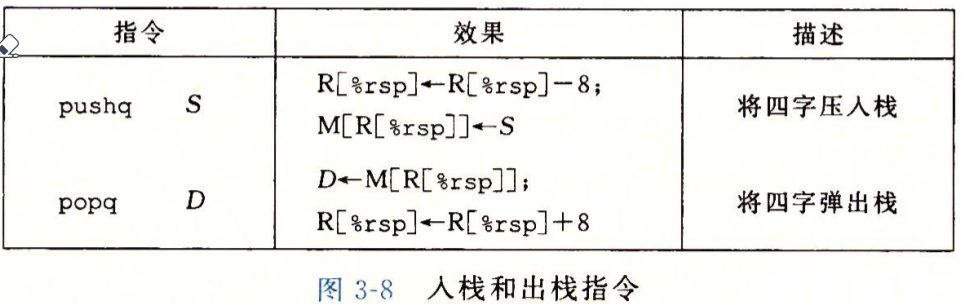
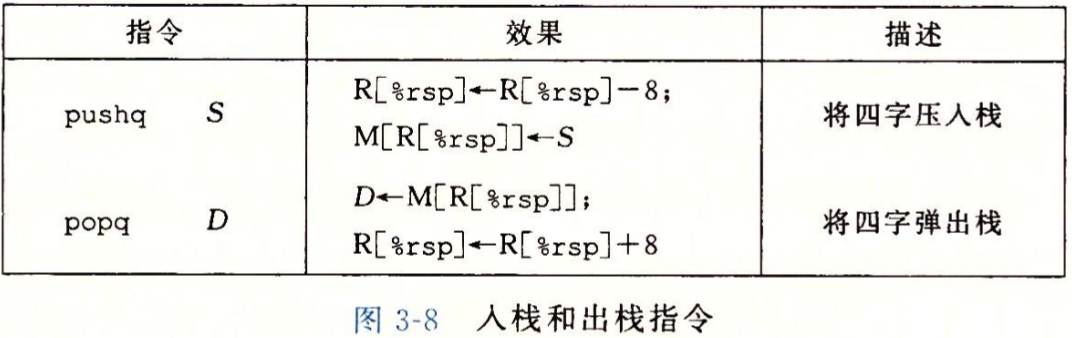
CSAPP第三章

diff --git a/notes/第三章 程序的机器级表示.md b/notes/第三章 程序的机器级表示.md
@@ -1,94 +1,295 @@
 # 第三章 程序的机器级表示
 
-```bash
-gcc -Og -S test.c	# 汇编代码 test.s
-gcc -Og -c test.c	# 目标代码 test.o
-gcc -Og -o test main.c test.c	# 可执行代码 test
-```
+### 编译系统
 
 ```bash
-objdump -d test.o	# 反汇编 test.s
+# 源文件 p1.c  p2.c
+.c -> .i -> .s -> .o -> 可执行文件
+
+# 预处理
+gcc -E p1.c -o p1.i
+gcc -E p2.c -o p2.i
+
+# 编译
+gcc -Og -S p1.i -o p1.s
+gcc -Og -S p2.i -o p2.s
+
+# 汇编
+gcc -c p1.s -o p1.o
+gcc -c p2.s -o p2.o
+
+# 链接
+gcc p1.o p2.o -o p
+
+# 反汇编
+objdump -d test.o > test.dump	# 反汇编可重定位目标文件
+objdump -d test.o > test.dump	# 反汇编可执行目标文件
 ```
 
->   Optimize generate Assembly output
+1.   **预处理器 cpp**
 
-8位-字节
+     预处理 # 开头的预处理指令
 
-16位-字
+     文本文件 p1.i p2.i
 
-32位-双字
+2.   **编译器 cc1**
 
-64位-四字
+     编译为汇编代码
+
+     汇编文件 p1.s  p2.s
+
+3.   **汇编器 as**
+
+     汇编为机器代码
+
+     可重定位目标文件 p1.o p2.o
+
+4.   **链接器 ld**
+
+     符号解析和重定位, p1.o  p2.o 与库代码合并
+
+     可执行目标文件 p
+
+### 机器级编程抽象
+
+**ISA 抽象 CPU 的软件可见行为, 包括处理器状态, 指令格式, 指令对状态的影响**
+
+处理器状态: PC, 整数寄存器, 条件码寄存器, 向量寄存器
+
+**虚拟地址空间抽象内存, 磁盘为大数组**
+
+### 数据格式
+
+![汇编后缀](../images/汇编后缀.png)
+
+### 寄存器
+
+16个64位**通用目的寄存器**
+
+*   生成1/2字节数字的指令保持剩余字节不变
+*   生成4字节数字的指令把高位4字节置为0
 
 ![寄存器](../images/寄存器.png)
+
+### 操作数
+
+*   基址寄存器 $r_b$ 和变址寄存器 $r_i$ 是 64 位寄存器
+*   比例因子 $s$ 是 1 2 4 8
 
 |  类型  |        格式        |                 值                 |
 | :----: | :----------------: | :--------------------------------: |
 | 立即数 |     $\${Imm}$      |              ${Imm}$               |
 | 寄存器 |       $r_a$        |              $R[r_a]$              |
-|  内存  | $Imm(r_b, r_i, s)$ | $M[Imm + R[r_b] + R[r_i] \cdot s]$ |
+| 存储器 | $Imm(r_b, r_i, s)$ | $M[Imm + R[r_b] + R[r_i] \cdot s]$ |
 
-**MOV 类**
+### 数据传送
 
-movl 寄存器为目的时将高位4字节置为0
+普通x86-64指令中两个操作数不能都指向内存
+
+**普通 MOV**
+
+**源操作数指定立即数**(立即数, 寄存器或内存)
+
+**目的操作数指定位置**(寄存器或内存)
+
+*   `movq` 32位立即数扩展到64位
+*   `movabsq` 源操作数任意64位立即数, 目的操作数寄存器
 
 ![mov1](../images/mov1.png)
+
+**扩展 MOV**
 
 ![mov2](../images/mov2.png)
 
 ![mov3](../images/mov3.png)
 
-**算数和逻辑操作**
+### 算数和逻辑操作
+
+**leaq 计算地址给寄存器**
+
+移位操作
+
+*   移位量: 立即数或寄存器 `%cl`
+*   目的操作数: w 位长, 移位量为低 `log w` 位, 忽略高位
 
 ![算数逻辑操作](../images/算数逻辑操作.png)
 
-leaq 目的操作数是寄存器
+特殊算术操作
 
-移位量是立即数或寄存器 cl, w位长移位量为 cl 低 $\log w$ 位
+乘法 `%rax * 源操作数 -> %rdx : %rax`
+
+除法 `%rdx : %rax / 源操作数 -> 商%rax 余数%rdx `
+
+`%rdx`
+
+*   无符号除法 `xorl %edx, %edx`
+*   有符号除法 `cqto`
 
 ![64位乘除法](../images/64位乘除法.png)
 
+### 控制
 
+**条件码**
 
-CF 进位标志
+一组单个位的条件码寄存器, 描述最近算术/逻辑操作的属性
 
-ZF 零标志
+*   CF 进位标志
 
-SF 符号标志
+*   ZF 零标志
 
-OF 溢出标志
+*   SF 符号标志
+
+*   OF 溢出标志
+
+**设置条件码**
 
 ![比较和测试指令](../images/比较和测试指令.png)
 
+**缩写**
+
+无符号比较: below / above
+
+有符号比较: less / great
+
+|  缩写   |          含义           |     符号      |
+| :-----: | :---------------------: | :-----------: |
+|  e / z  |     equal / zero ==     |               |
+| ne / nz | not equal / not zero != |               |
+|         |                         |               |
+|    b    |         below <         |    无符号     |
+|   be    |     below equal <=      |    无符号     |
+|    a    |         above >         |    无符号     |
+|   ae    |     above equal >=      |    无符号     |
+|         |                         |               |
+|    l    |         less <          |    有符号     |
+|   le    |      less equal <=      |    有符号     |
+|    g    |         great >         |    有符号     |
+|   ge    |     great equal >=      |    有符号     |
+|         |                         |               |
+|    c    |     carry 进位/借位     |  setb = setc  |
+|   nc    |  no carry 无进位/借位   | setae = setnc |
+|         |                         |               |
+|    s    |         sign 负         |               |
+|   ns    |      no sign 非负       |               |
+|         |                         |               |
+|    o    |      overflow 溢出      |               |
+|   no    |   no overflow 无溢出    |               |
+
+**访问条件码**
+
 ![set指令](../images/set指令.png)
+
+**跳转指令**
+
+*   相对地址
+
+    下一指令地址 + 偏移量
+
+*   绝对地址
+
+    四字节
 
 ![跳转指令](../images/跳转指令.png)
 
-跳转目标地址 = 跳转指令下一条指令的地址 + 偏移量
+**条件分支**
 
-**if**
+```c
+	if (!expr)
+    	goto false;
+	...
+	goto done;
+false:
+	...
+done:
+```
 
-![if C](../images/if C.png)
+**条件传送**
 
-![if 汇编](../images/if 汇编.png)
+直接计算两种结果, 根据条件二选一
+
+```C
+if ()
+    res = ...;
+else
+    res = ...;
+```
+
+预测错误概率 $p$, 预测正确时间 $T_{OK}$, 预测错误处罚 $T_{MP}$, 平均时间 $T_{avg}$
+$$
+T_{avg}(p) = T_{OK} + pT_{MP}
+$$
+从目的寄存器推断操作数长度
 
 ![条件传送指令](../images/条件传送指令.png)
 
+**循环**
+
 **do-while**
 
-![do-while](../images/do-while.png)
+```C
+loop:
+	...
+    if (expr)
+        goto loop;
+```
+
+
 
 **while**
 
-![while](../images/while.png)
+```C
+	goto test;
+loop:
+	...
+    if (expr)
+        goto loop;
+```
 
-![while2](../images/while2.png)
+```C
+	if (expr)
+        goto done;
+loop:
+	...
+    if (expr)
+        goto loop;
+done:
+```
 
+**for**
 
+```C
+for (init; expr; update)
+    
+init;
+while (expr)
+{
+    ...
+    update;
+}
+```
 
-![call 和 ret](C:/Users/clearlife/AppData/Roaming/Typora/typora-user-images/call 和 ret.png)
+**switch**
 
+```C
+static void *jt[n] = {
+    &&loc_A, &&loc_B, &&loc_C, &&loc_D,
+    &&loc_E, &&loc_D, &&loc_def
+};
 
+unsigned idx = ... - ...;
+
+if (expr)
+    goto loc_def;
+goto *jt[idx];
+
+loc_A:
+	...
+...
+loc_F:
+	...
+loc_def:
+	...
+```
 
 
 

diff --git a/notes/第一章 计算机系统漫游.md b/notes/第一章 计算机系统漫游.md
@@ -38,6 +38,8 @@ linux> ./hello
 hello, world
 ```
 
+
+
 **计算机系统**
 
 *   硬件
